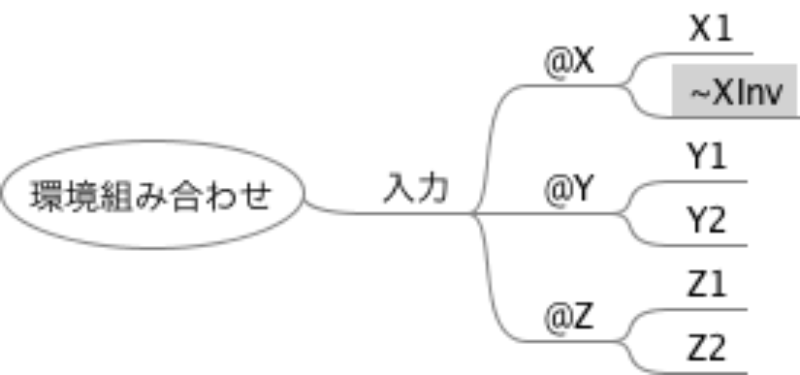
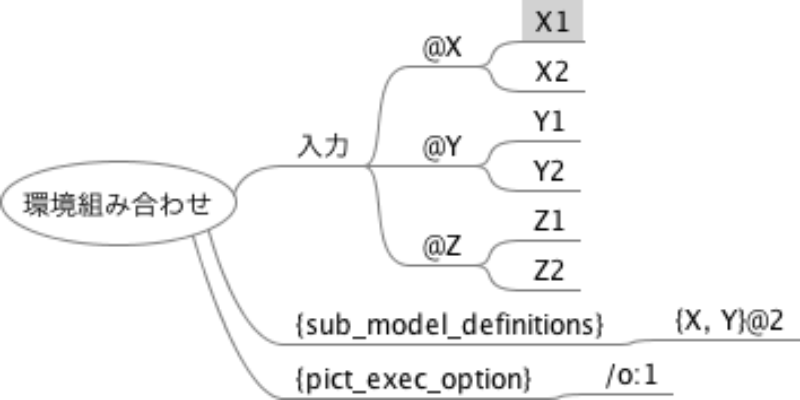
fix doc

diff --git a/doc/image/combitional.mm b/doc/image/combitional.mm
@@ -1,10 +1,10 @@
 <map version="1.1.0">
 <!-- To view this file, download free mind mapping software FreeMind from http://freemind.sourceforge.net -->
 <node CREATED="1514879415213" ID="ID_1576690442" MODIFIED="1517641458095" TEXT="&#x74b0;&#x5883;&#x7d44;&#x307f;&#x5408;&#x308f;&#x305b;">
-<node CREATED="1517641475868" ID="ID_1992541020" MODIFIED="1517641480761" POSITION="right" TEXT="&#x5165;&#x529b;">
+<node CREATED="1517641475868" ID="ID_1992541020" MODIFIED="1517673748275" POSITION="right" TEXT="&#x5165;&#x529b;">
 <node CREATED="1517641471869" ID="ID_321238175" MODIFIED="1517641530769" TEXT="@X">
-<node CREATED="1517641493284" ID="ID_1384695662" MODIFIED="1517670189636" TEXT="X1"/>
-<node CREATED="1517641497057" ID="ID_1634362864" MODIFIED="1517670632739" TEXT="~XInv"/>
+<node CREATED="1517641493284" ID="ID_1384695662" MODIFIED="1517674510943" TEXT="X1"/>
+<node CREATED="1517641497057" ID="ID_1634362864" MODIFIED="1517673462092" TEXT="X2"/>
 </node>
 <node CREATED="1517641483987" ID="ID_1058793621" MODIFIED="1517641536112" TEXT="@Y">
 <node CREATED="1517641503412" ID="ID_222396144" MODIFIED="1517641504790" TEXT="Y1"/>
@@ -14,6 +14,12 @@
 <node CREATED="1517641511921" ID="ID_1380614960" MODIFIED="1517641513524" TEXT="Z1"/>
 <node CREATED="1517641513989" ID="ID_1895068997" MODIFIED="1517641515291" TEXT="Z2"/>
 </node>
+</node>
+<node CREATED="1517674367911" ID="ID_1094657717" MODIFIED="1517674368961" POSITION="right" TEXT="{sub_model_definitions}">
+<node CREATED="1517674480145" ID="ID_559829890" MODIFIED="1517674481225" TEXT="{X, Y}@2"/>
+</node>
+<node CREATED="1517674490305" ID="ID_130795687" MODIFIED="1517674491791" POSITION="right" TEXT="{pict_exec_option}">
+<node CREATED="1517674497459" ID="ID_189162842" MODIFIED="1517674498728" TEXT="/o:1"/>
 </node>
 </node>
 </map>
